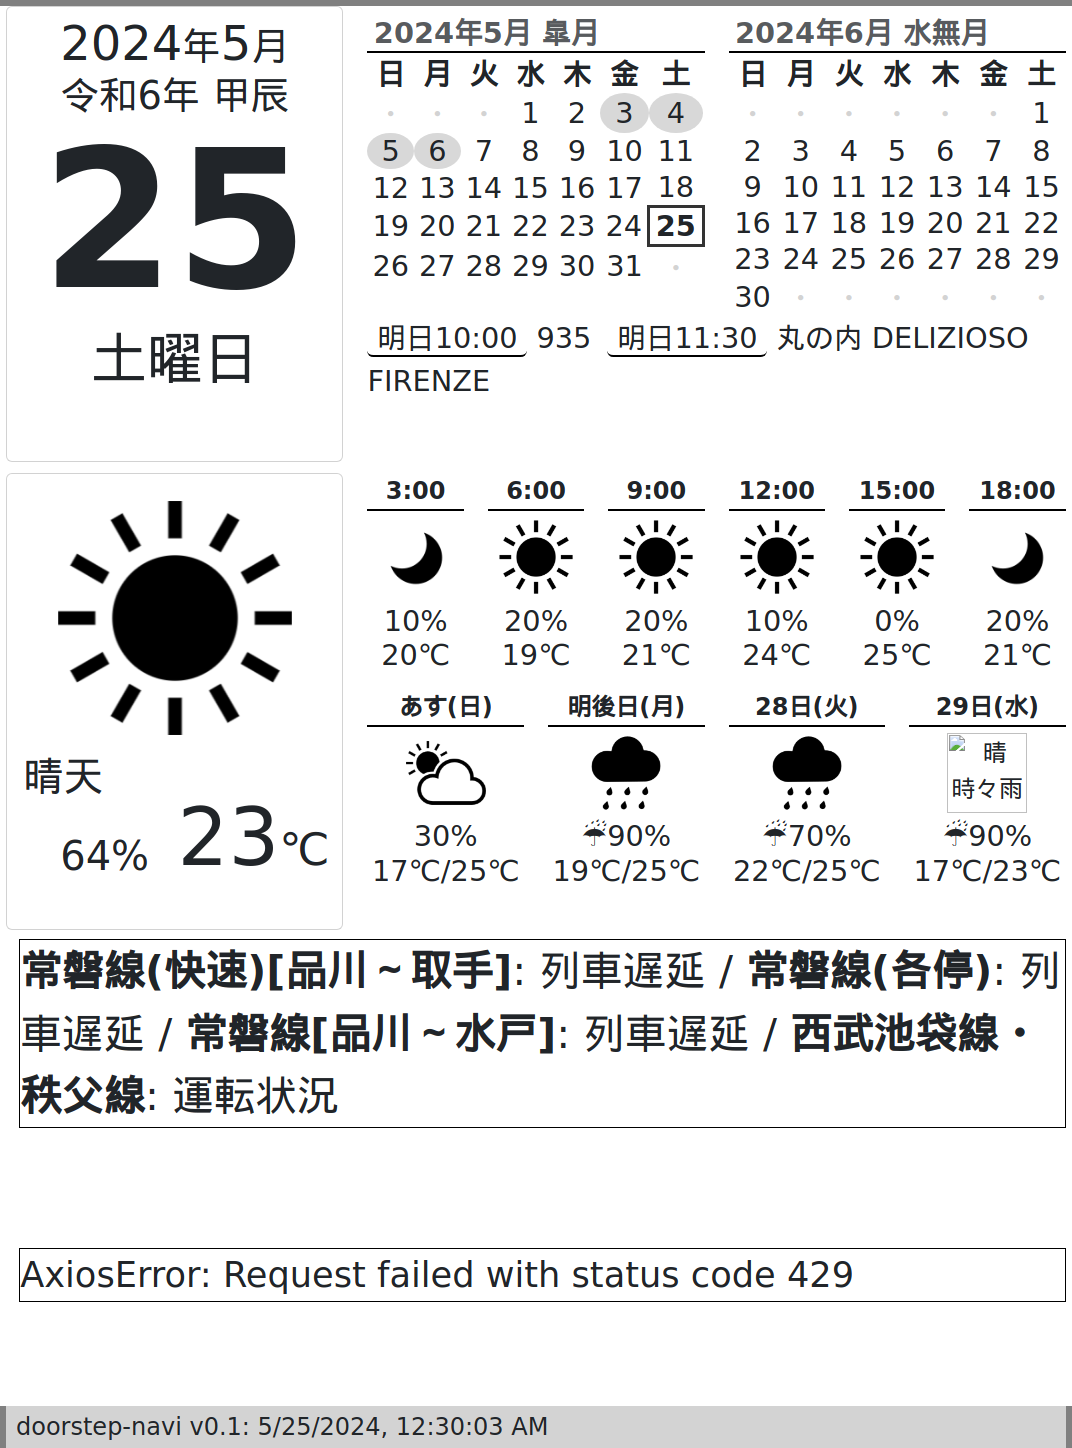
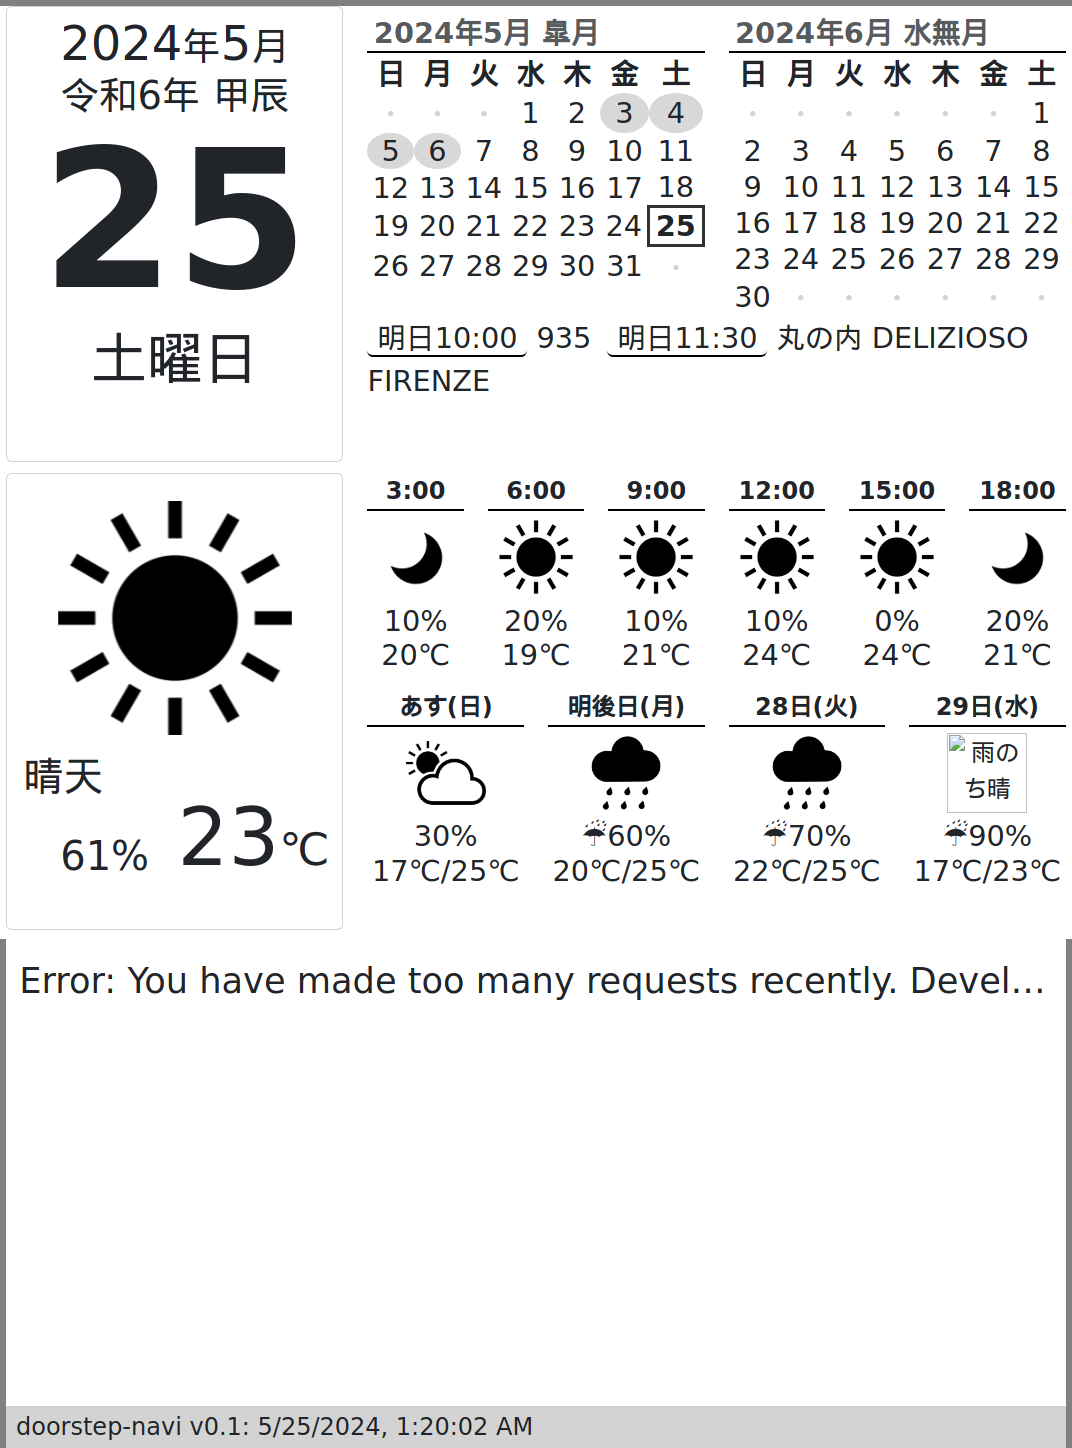
temp

diff --git a/public/data.js b/public/data.js
@@ -79,11 +79,11 @@ const DATA = {
         "rise": 1716578963,
         "set": 1716630380
       },
-      "time": 1716564603000,
-      "date": "5/25/2024, 12:30:03 AM",
-      "temperature": 23.22,
-      "humidity": 64,
-      "wind": 4.12,
+      "time": 1716567602000,
+      "date": "5/25/2024, 1:20:02 AM",
+      "temperature": 22.84,
+      "humidity": 61,
+      "wind": 5.14,
       "pressure": 1005,
       "uvi": 0,
       "clouds": 0,
@@ -102,7 +102,7 @@ const DATA = {
         "date": "5/25/2024, 3:00:00 AM",
         "pop": 10,
         "rain": 0,
-        "temperature": 19.9,
+        "temperature": 19.8,
         "humidity": 67,
         "description": "晴れ",
         "icon": "assets/images/weather/01n.png"
@@ -117,8 +117,8 @@ const DATA = {
         "date": "5/25/2024, 6:00:00 AM",
         "pop": 20,
         "rain": 0,
-        "temperature": 18.8,
-        "humidity": 61,
+        "temperature": 19,
+        "humidity": 59,
         "description": "晴れ",
         "icon": "assets/images/weather/01.png"
       },
@@ -130,10 +130,10 @@ const DATA = {
         "visibility": 10000,
         "time": 1716595200000,
         "date": "5/25/2024, 9:00:00 AM",
-        "pop": 20,
+        "pop": 10,
         "rain": 0,
-        "temperature": 21.4,
-        "humidity": 49,
+        "temperature": 21.3,
+        "humidity": 48,
         "description": "晴れ",
         "icon": "assets/images/weather/01.png"
       },
@@ -147,8 +147,8 @@ const DATA = {
         "date": "5/25/2024, 12:00:00 PM",
         "pop": 10,
         "rain": 0,
-        "temperature": 23.9,
-        "humidity": 45,
+        "temperature": 24,
+        "humidity": 43,
         "description": "晴れ",
         "icon": "assets/images/weather/01.png"
       },
@@ -162,8 +162,8 @@ const DATA = {
         "date": "5/25/2024, 3:00:00 PM",
         "pop": 0,
         "rain": 0,
-        "temperature": 24.8,
-        "humidity": 48,
+        "temperature": 24,
+        "humidity": 47,
         "description": "晴れ",
         "icon": "assets/images/weather/01.png"
       },
@@ -193,7 +193,7 @@ const DATA = {
         "pop": 20,
         "rain": 0,
         "temperature": 18.7,
-        "humidity": 63,
+        "humidity": 62,
         "description": "曇り",
         "icon": "assets/images/weather/03.png"
       },
@@ -208,7 +208,7 @@ const DATA = {
         "pop": 30,
         "rain": 0,
         "temperature": 18.2,
-        "humidity": 65,
+        "humidity": 64,
         "description": "曇り",
         "icon": "assets/images/weather/03.png"
       },
@@ -223,7 +223,7 @@ const DATA = {
         "pop": 30,
         "rain": 0,
         "temperature": 17.4,
-        "humidity": 68,
+        "humidity": 67,
         "description": "曇り",
         "icon": "assets/images/weather/03.png"
       },
@@ -235,9 +235,9 @@ const DATA = {
         "visibility": 10000,
         "time": 1716670800000,
         "date": "5/26/2024, 6:00:00 AM",
-        "pop": 20,
+        "pop": 30,
         "rain": 0,
-        "temperature": 18.5,
+        "temperature": 18.6,
         "humidity": 69,
         "description": "曇り",
         "icon": "assets/images/weather/03.png"
@@ -252,7 +252,7 @@ const DATA = {
         "date": "5/26/2024, 9:00:00 AM",
         "pop": 20,
         "rain": 0,
-        "temperature": 21.2,
+        "temperature": 21.1,
         "humidity": 61,
         "description": "曇り",
         "icon": "assets/images/weather/03.png"
@@ -267,8 +267,8 @@ const DATA = {
         "date": "5/26/2024, 12:00:00 PM",
         "pop": 20,
         "rain": 0,
-        "temperature": 24.3,
-        "humidity": 54,
+        "temperature": 24.4,
+        "humidity": 53,
         "description": "曇り",
         "icon": "assets/images/weather/03.png"
       },
@@ -282,8 +282,8 @@ const DATA = {
         "date": "5/26/2024, 3:00:00 PM",
         "pop": 0,
         "rain": 0,
-        "temperature": 23.9,
-        "humidity": 54,
+        "temperature": 24,
+        "humidity": 53,
         "description": "晴れ",
         "icon": "assets/images/weather/01.png"
       },
@@ -297,7 +297,7 @@ const DATA = {
         "date": "5/26/2024, 6:00:00 PM",
         "pop": 0,
         "rain": 0,
-        "temperature": 22,
+        "temperature": 22.1,
         "humidity": 63,
         "description": "晴れ",
         "icon": "assets/images/weather/01n.png"
@@ -312,19 +312,23 @@ const DATA = {
         "date": "5/26/2024, 9:00:00 PM",
         "pop": 0,
         "rain": 0,
-        "temperature": 21,
+        "temperature": 20.9,
         "humidity": 76,
         "description": "晴れ",
         "icon": "assets/images/weather/01n.png"
       },
       {
+        "wind": 3,
+        "pressure": 1012,
+        "uvi": 0,
+        "clouds": 98,
+        "visibility": 10000,
         "time": 1716735600000,
         "date": "5/27/2024, 12:00:00 AM",
         "pop": 20,
         "rain": 0,
-        "temperature": 20.5,
-        "humidity": 84,
-        "wind": 3,
+        "temperature": 20.4,
+        "humidity": 85,
         "description": "曇り",
         "icon": "assets/images/weather/03.png"
       }
@@ -357,10 +361,10 @@ const DATA = {
       {
         "time": 1716735600000,
         "date": "5/27/2024, 12:00:00 AM",
-        "pop": 90,
-        "rain": 6,
+        "pop": 60,
+        "rain": 3,
         "temperature": {
-          "min": 19,
+          "min": 20,
           "max": 25
         },
         "description": "曇のち雨",
@@ -387,8 +391,8 @@ const DATA = {
           "min": 17,
           "max": 23
         },
-        "description": "晴時々雨",
-        "icon": "assets/images/weather/晴時々雨.png"
+        "description": "雨のち晴",
+        "icon": "assets/images/weather/雨のち晴.png"
       },
       {
         "time": 1716994800000,
@@ -449,6 +453,18 @@ const DATA = {
         },
         "description": "晴時々曇",
         "icon": "assets/images/weather/02.png"
+      },
+      {
+        "time": 1717426800000,
+        "date": "6/4/2024, 12:00:00 AM",
+        "pop": 40,
+        "rain": 0,
+        "temperature": {
+          "min": 16,
+          "max": 25
+        },
+        "description": "曇時々晴",
+        "icon": "assets/images/weather/02.png"
       }
     ]
   },
@@ -479,48 +495,12 @@ const DATA = {
   "news": {
     "articles": [
       {
-        "title": "AxiosError: Request failed with status code 429",
+        "title": "Error: You have made too many requests recently. Developer accounts are limited to 100 requests over a 24 hour period (50 requests available every 12 hours). Please upgrade to a paid plan if you need more requests.",
         "description": "",
         "url": null,
         "image": null
       }
     ],
-    "error": {
-      "message": "Request failed with status code 429",
-      "name": "AxiosError",
-      "stack": "AxiosError: Request failed with status code 429\n    at settle (file:///home/torao/git/doorstep-navi/node_modules/axios/lib/core/settle.js:19:12)\n    at IncomingMessage.handleStreamEnd (file:///home/torao/git/doorstep-navi/node_modules/axios/lib/adapters/http.js:589:11)\n    at IncomingMessage.emit (node:events:531:35)\n    at endReadableNT (node:internal/streams/readable:1696:12)\n    at process.processTicksAndRejections (node:internal/process/task_queues:82:21)\n    at Axios.request (file:///home/torao/git/doorstep-navi/node_modules/axios/lib/core/Axios.js:45:41)\n    at process.processTicksAndRejections (node:internal/process/task_queues:95:5)\n    at async file:///home/torao/git/doorstep-navi/news.js:14:24\n    at async getCache (file:///home/torao/git/doorstep-navi/cache.js:25:16)\n    at async getNews (file:///home/torao/git/doorstep-navi/news.js:13:18)",
-      "config": {
-        "transitional": {
-          "silentJSONParsing": true,
-          "forcedJSONParsing": true,
-          "clarifyTimeoutError": false
-        },
-        "adapter": [
-          "xhr",
-          "http"
-        ],
-        "transformRequest": [
-          null
-        ],
-        "transformResponse": [
-          null
-        ],
-        "timeout": 0,
-        "xsrfCookieName": "XSRF-TOKEN",
-        "xsrfHeaderName": "X-XSRF-TOKEN",
-        "maxContentLength": -1,
-        "maxBodyLength": -1,
-        "env": {},
-        "headers": {
-          "Accept": "application/json, text/plain, */*",
-          "User-Agent": "axios/1.6.8",
-          "Accept-Encoding": "gzip, compress, deflate, br"
-        },
-        "method": "get",
-        "url": "https://newsapi.org/v2/top-headlines?country=jp&category=general&apiKey=691484240de04b8685fbda1970760cac"
-      },
-      "code": "ERR_BAD_REQUEST",
-      "status": 429
-    }
+    "error": "Error: You have made too many requests recently. Developer accounts are limited to 100 requests over a 24 hour period (50 requests available every 12 hours). Please upgrade to a paid plan if you need more requests."
   }
 };

diff --git a/public/index.html b/public/index.html
@@ -166,15 +166,20 @@
         </div>
       </div>
     </div>
-    <div id="news" class="row">
-      <div class="col-12">
-        <p id="transit-delayed-lines"></p>
-      </div>
-      <div class="col-12">
-        <div id="news-image">
-          <img src="" class="img-fluid" id="news-headline-image" />
+    <div id="news">
+      <div class="row">
+        <div class="col-12">
+          <dl id="transit-delayed-lines">
+          </dl>
         </div>
-        <ol id="news-headline"></ol>
+      </div>
+      <div class="row">
+        <div class="col-12">
+          <div id="news-image">
+            <img src="" class="img-fluid" id="news-headline-image" />
+          </div>
+          <ol id="news-headline"></ol>
+        </div>
       </div>
     </div>
     <div id="status">doorstep-navi v0.1</div>

diff --git a/index.js b/index.js
@@ -62,6 +62,7 @@ async function update() {
     waitUntil: "networkidle2",
   });
   await page.screenshot({ path: "output.png" });
+  console.log("output image generated");
   await browser.close();
 })()
 

diff --git a/public/assets/css/style.css b/public/assets/css/style.css
@@ -17,8 +17,8 @@ body {
 
 #calendar,
 #weather,
-#transite,
-#news {
+#news,
+#status {
   background-color: white;
   height: 32.5%;
   overflow: hidden;
